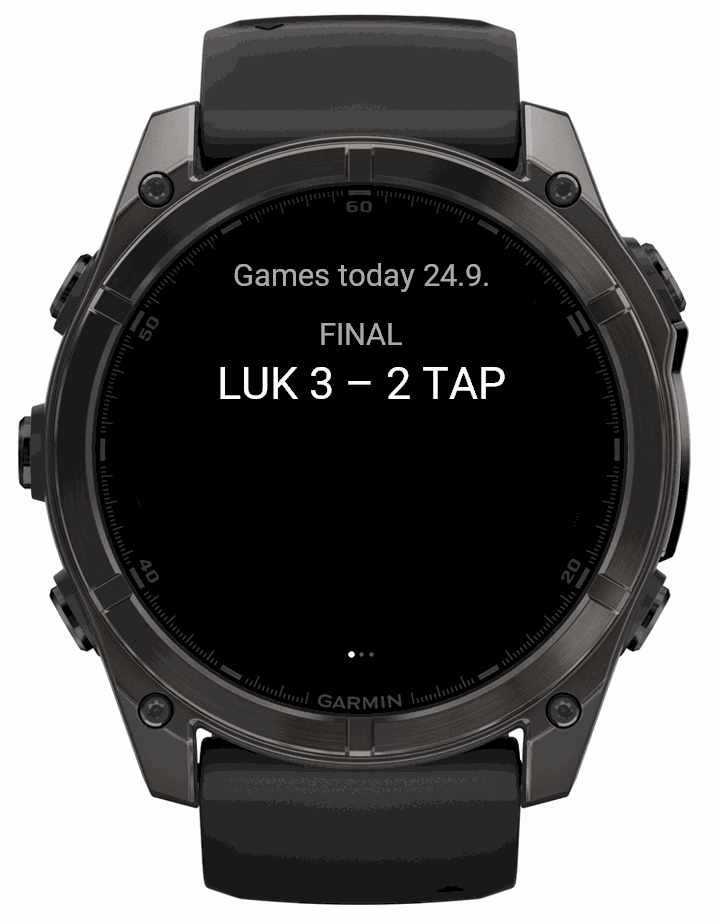
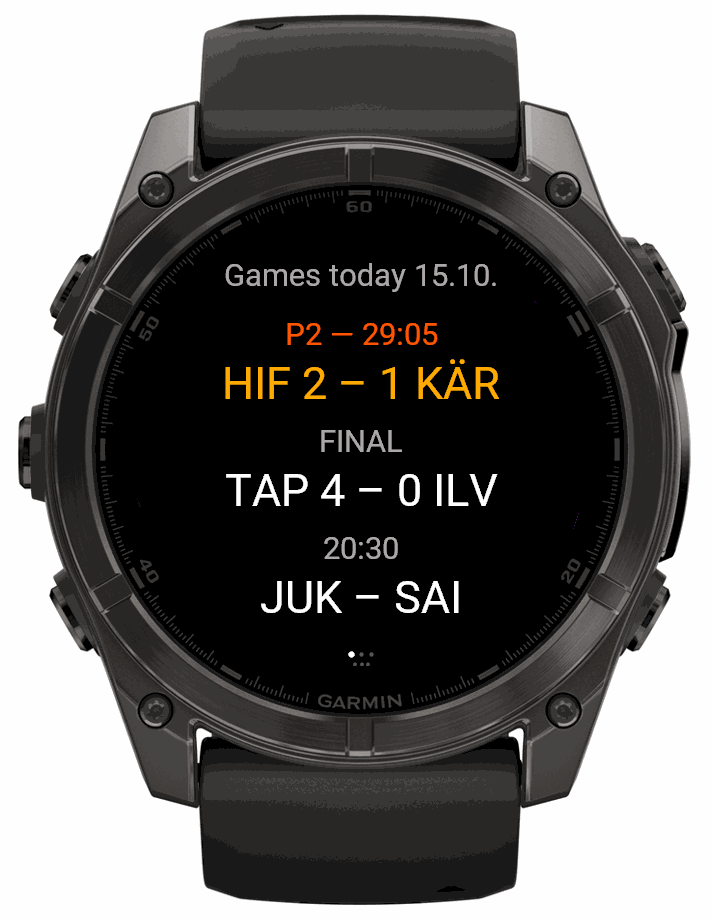
Store listing: description (FI/EN/SV), refreshed screenshots and art
- watch/store-listing.md: paste-ready app name + description per
  language for the Connect IQ dashboard, plus a what's-new block for
  the first public release. All three languages get real copy, not
  just fi/en - RESEARCH.md already made the case for Swedish given
  HIFK/Sport/Ässät's Swedish-speaking followings.
- Screenshots refreshed from a real v1.1.0 capture: live game, a
  shootout FINAL showing the (VL) marker, an upcoming unscored game,
  favourite team (HIFK) highlighted and pinned in the table. The old
  set predated the VL feature, no-score-before-kickoff, and the
  "Liiga Watch" rename - pg3.png's About screen still said "LiigaWatch
  0.1.0".
- Dropped pg2-3.png/pg3.png (stale, superseded by pg-about.png and the
  new pg1-2/pg1-3/pg2-2 set).
- make_store_art.py: hardcoded title "FILiigaWatch" -> "Liiga Watch",
  hero/cover regenerated from the fresh capture.
- Still open: a monochrome (Instinct) screenshot, and pg-about.png was
  captured in the mock scenario so shows "(mock data)" - retake from
  live data or drop it, see store-listing.md's Screenshots section.

diff --git a/watch/store/make_store_art.py b/watch/store/make_store_art.py
@@ -144,7 +144,7 @@ def make_hero() -> None:
     d = ImageDraw.Draw(img)
     x, max_w = 96, 660
 
-    title = "FILiigaWatch"
+    title = "Liiga Watch"
     size = 74
     while size > 34 and d.textlength(title, font=font(size, "bold")) > max_w:
         size -= 2
@@ -183,7 +183,7 @@ def make_cover() -> None:
     img.paste(watch, (S // 2 - watch.size[0] // 2, 228 - watch.size[1] // 2), watch)
 
     d = ImageDraw.Draw(img)
-    centered(d, S // 2, 462, "FILiigaWatch", font(30, "bold"), WHITE)
+    centered(d, S // 2, 462, "Liiga Watch", font(30, "bold"), WHITE)
 
     img.save(COVER, "PNG")
     print(f"{COVER.name}  {img.size[0]}x{img.size[1]}  {COVER.stat().st_size:,} bytes")

diff --git a/watch/store-listing.md b/watch/store-listing.md
@@ -1,0 +1,248 @@
+# Connect IQ Store listing copy — v1.0.0 / v1.1.0
+
+Paste-ready text for <https://apps-developer.garmin.com>. v1.0.0 (device list, the
+monochrome Instinct fix, "Liiga Watch" branding) was uploaded for review 2026-10-14,
+before the round-screen text-clipping fix (`fitsScreen()`) existed. v1.1.0 ships that
+fix. There's no separate "what's new" text for 1.1.0 below — nobody saw 1.0.0 publicly,
+so the listing just describes what's actually shipping as the first public release.
+
+The beta branch (`kavaleff/FILiigaWatch`'s `beta`, app id
+`3be2f502eeff40c7b0e859bfbb271279`) is unlisted and needs no copy — same split as
+FIWeatherWatch/VolvoWatch.
+
+---
+
+## Listing language
+
+The Connect IQ store takes a separate description per language, and the app declares
+`eng`, `fin` and `swe`. **All three get real copy here, unlike FIWeatherWatch's
+listing** (fin/eng only) — RESEARCH.md §6 already made the case for Swedish
+specifically: HIFK, Sport and Ässät have real Swedish-speaking followings, and the
+league itself is "FM-ligan" in Swedish, not a transliteration.
+
+The dashboard offers a name and a description per language, nothing else — no short
+description, no bullets, no subtitle field. Everything the listing says has to live in
+those two boxes.
+
+---
+
+## App name
+
+**50-character limit** (same as FIWeatherWatch's dashboard).
+
+**Finnish:**
+```
+Liigan tulokset ja sarjataulukko ajantasaisena
+```
+(46 chars)
+
+**English:**
+```
+Liiga hockey scores and standings on your wrist
+```
+(48 chars)
+
+**Swedish:**
+```
+FM-ligans resultat och tabell på handleden
+```
+(43 chars)
+
+**Why these.** Same reasoning as FIWeatherWatch's name field: it's the whole short
+pitch and what store search matches on, so a bare product name would waste it. All
+three lead with *live/current* ("ajantasaisena" / "on your wrist" implying real-time,
+not a static score lookup) — matching RESEARCH.md §7's actual differentiator over the
+one paid US-league competitor: a 5-second upstream cache makes this genuinely live,
+where the incumbent updates hourly.
+
+**The launcher name on the watch is `AppName` = "Liiga Watch" in all three language
+packs** (`watch/resources*/strings/strings.xml`) — same device/store name split
+rationale as FIWeatherWatch, though here the two happen to be closer to each other.
+
+---
+
+## Description — Finnish
+
+```
+Liigan (SM-liiga) ottelut ja sarjataulukko ranteessa — niin ajantasaisena kuin Liiga.fi itse näyttää.
+
+OTTELUT
+Päivän ottelut yhdellä silmäyksellä: aloitusaika ennen ottelun alkua, sitten erä ja peliaika livenä, lopuksi loppulukema. Voittolaukauksilla ratkenneet ottelut on merkitty (VL). Jos tänään ei pelata, sovellus näyttää seuraavan pelipäivän ottelut valmiiksi.
+
+SARJATAULUKKO
+Koko sarjataulukko sijoituksineen ja pisteineen.
+
+OMA SUOSIKKI
+Valitse suosikkijoukkue: sen ottelu nousee aina päivän listan kärkeen, ja se korostuu sekä otteluissa että taulukossa — taulukossa se pysyy näkyvissä omalla rivillään, vaikka olisi sijalla 14.
+
+PÄIVITYSTAHTI
+Pelipäivinä voit valita, kuinka usein lukemat päivittyvät — 5, 15, 30 tai 60 sekunnin välein.
+
+VILKAISU
+Ottelutilanne näkyy myös widget-karusellissa ilman, että sovellusta tarvitsee avata.
+
+Suomi, ruotsi ja englanti kellon omien kieliasetusten mukaan.
+
+KATTAVUUS
+Vain Liiga (SM-liiga) — runkosarja ja pudotuspelit. Ei tilastoja, ei maalintekijöitä, ei muita sarjoja.
+
+Vaatii puhelinyhteyden tai WiFin. Ei tiliä eikä kirjautumista.
+
+Tulokset ja sarjataulukko: Liiga.fi. Liiga Watch on itsenäinen projekti, ei Liigan eikä Garminin tukema.
+```
+
+---
+
+## Description — English
+
+```
+Live Liiga (SM-liiga) scores and the full league table on your wrist.
+
+GAMES
+Today's games at a glance: kickoff time before a game starts, period and game clock live, final score once it's over — games decided by a shootout are marked (VL). No games today? The app shows the next game day's fixtures instead.
+
+TABLE
+The full league table, with every team's rank and points.
+
+YOUR TEAM
+Pick a favourite team: their game always sits at the top of today's list, and they're highlighted both there and in the table — in the table they stay visible on their own row even sitting in 14th.
+
+UPDATE SPEED
+On game days, choose how often scores refresh — 5, 15, 30 or 60 seconds.
+
+GLANCE
+Check the score from the glance carousel without opening the app.
+
+Finnish, Swedish and English, following your watch's language.
+
+COVERAGE
+Liiga (SM-liiga) only — regular season and playoffs. No player stats, no goal scorers, no other leagues.
+
+Needs a phone connection or WiFi. No account, no sign-in.
+
+Scores and standings: Liiga.fi. Liiga Watch is an independent project, not affiliated with or endorsed by Liiga or Garmin.
+```
+
+---
+
+## Description — Swedish
+
+```
+FM-ligans (SM-liiga) resultat och tabell direkt på handleden.
+
+MATCHER
+Dagens matcher på en gång: avsparkstid innan matchen börjar, period och matchklocka live, slutresultat när matchen är slut — matcher som avgjorts på straffar är märkta (VL). Inga matcher idag? Appen visar nästa matchdags program istället.
+
+TABELL
+Hela serietabellen, med varje lags placering och poäng.
+
+DITT LAG
+Välj ett favoritlag: deras match hamnar alltid överst i dagens lista, och laget är markerat både där och i tabellen — i tabellen syns det på sin egen rad även på plats 14.
+
+UPPDATERINGSTAKT
+På matchdagar väljer du själv hur ofta resultaten uppdateras — 5, 15, 30 eller 60 sekunder.
+
+GLANCE
+Se matchläget direkt i glance-karusellen utan att öppna appen.
+
+Finska, svenska och engelska, enligt klockans eget språkval.
+
+TÄCKNING
+Endast FM-ligan (SM-liiga) — grundserie och slutspel. Ingen spelarstatistik, inga målskyttar, inga andra serier.
+
+Kräver telefonanslutning eller WiFi. Inget konto, ingen inloggning.
+
+Resultat och tabell: Liiga.fi. Liiga Watch är ett oberoende projekt, inte anslutet till eller stött av Liiga eller Garmin.
+```
+
+---
+
+## What's new — first public release
+
+**Finnish:**
+```
+Ensimmäinen julkinen versio.
+
+• Päivän ottelut livenä, erä ja peliaika näkyvissä
+• Koko sarjataulukko
+• Oma suosikkijoukkue — korostus ja kiinnitys taulukossa
+• Valittava päivitystahti pelipäivinä
+• Widget-karuselli ilman sovelluksen avaamista
+• Suomi, ruotsi ja englanti
+```
+
+**English:**
+```
+First public release.
+
+• Today's games live, with period and game clock
+• Full league table
+• Favourite team — highlighted and pinned in the table
+• Configurable update speed on game days
+• Glance carousel card, no need to open the app
+• Finnish, Swedish and English
+```
+
+**Swedish:**
+```
+Första publika versionen.
+
+• Dagens matcher live, med period och matchklocka
+• Hela serietabellen
+• Favoritlag — markerat och fäst i tabellen
+• Valbar uppdateringstakt på matchdagar
+• Glance-kort utan att öppna appen
+• Finska, svenska och engelska
+```
+
+---
+
+## Availability
+
+**Recommendation: don't geo-restrict, unlike FIWeatherWatch.** FIWeatherWatch's
+9-country list exists because its *data* is location-bound — a German buyer only
+benefits from it in Germany or on the Baltic. Liiga scores aren't location-bound the
+same way: a Finn (or Liiga fan) anywhere in the world gets identical value from the
+app, matching RESEARCH.md §7's framing of the whole proposition as "on a wrist,"
+not "near Finland." Worth confirming with Nico rather than assuming, but there's no
+FIWeatherWatch-style coverage-mismatch risk to defend against here.
+
+## Artwork
+
+`watch/store/make_store_art.py` renders both images from a real capture
+(`Screenshots/pg1.png`) composited into the SDK's own `fenix847mm` skin — same
+mechanism as FIWeatherWatch/VolvoWatch, so the artwork can't drift from the product.
+Title updated 2026-10-15 to say "Liiga Watch", matching the in-app name.
+
+- `watch/store/hero-1440x720.png`
+- `watch/store/cover-500x500.png`
+
+Regenerated 2026-10-15 from a fresh v1.1.0 capture (live game, a shootout-decided
+FINAL with the (VL) marker, an upcoming unscored game, favourite team HIFK
+highlighted) — the previous capture predated the VL feature, the no-score-before-
+kickoff change, and the "Liiga Watch" rename.
+
+## Screenshots
+
+From `Screenshots/framed/` (bezel-composited, `Screenshots/frame.py`), all well under
+the store's 300 kB cap:
+
+| File | Shows |
+|---|---|
+| `pg1.png` | Today — live game, FINAL with (VL) shootout marker, upcoming game, favourite highlighted |
+| `pg1-2.png` | Today, scrolled — more of the same day's round |
+| `pg1-3.png` | Today, scrolled — rest of the round |
+| `pg2-1.png` | Table — top of the standings |
+| `pg2-2.png` | Table, scrolled — favourite team (HIFK) pinned on its own row outside the top group |
+| `pg-about.png` | About page (reference only — shows "(mock data)" since it was captured in the mock full-round scenario for variety; **retake from live data before using it in the actual gallery**, or drop it per FIWeatherWatch's precedent that About is lowest-priority and optional) |
+
+Priority order if the dashboard caps the count (same reasoning as FIWeatherWatch —
+colour first, gallery preview is image one): `pg1.png`, `pg2-2.png` (shows the
+favourite-pin feature, a real differentiator), `pg2-1.png`, `pg1-2.png`, `pg1-3.png`.
+Drop `pg-about.png` first if anything has to give.
+
+**Not yet done:** a monochrome capture (Instinct). Same reasoning as
+FIWeatherWatch's "monochrome slot" — a buyer on one of the now-shipping mono Instinct
+devices deserves to see before installing what their screen will actually look like
+(plain white highlight instead of orange/yellow, see `Theme.mc`). Take one before
+final submission if time allows; not a blocker for getting v1.0.0/1.1.0 uploaded.
